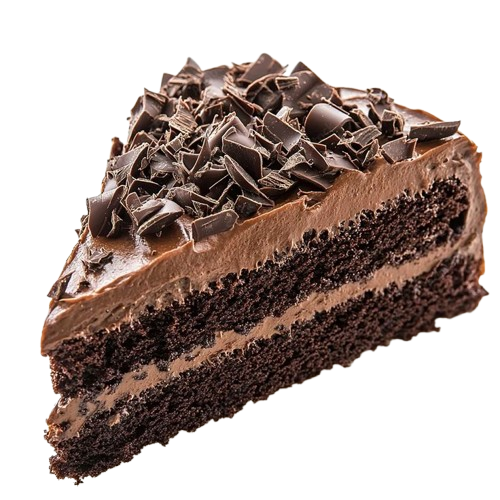
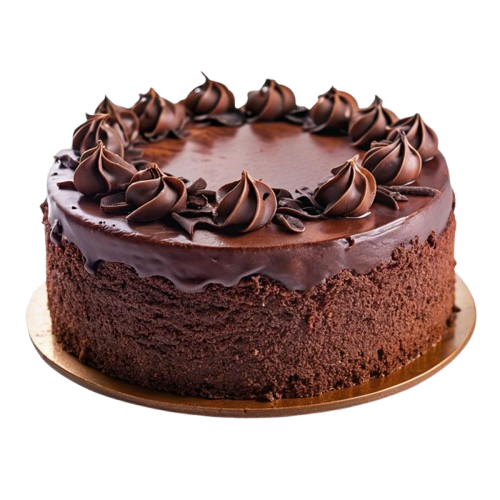
SERVICE/BREADCATEGORIE

diff --git a/service.html b/service.html
@@ -94,8 +94,8 @@
 
 
     .card img {
-        height: auto; 
-        width: 100%; 
+        height: 280px auto;
+        width: 100%;
     
     }
     .card-title{
@@ -157,14 +157,21 @@
         max-width: 100%;
     }
     
-    .card img {
-        height: 180px; 
-    }
+   
     }
     .imagebread{
-        height: 300px!important;
-        width: 100%;
+        height: 280px!important;
+        width: 100%!important;
 
+    }
+    .range{
+        font-size: 1.2rem;
+        font-family: sans-serif;
+        font-weight: 500;
+        margin-right: 20px;
+    }
+    .btn-warning{
+        background-color: rgb(255, 215, 15);
     }
         /*.containerservce{
             background-color: #fff;
@@ -247,7 +254,7 @@
                 <div class="card-body">
                     <h5 class="card-title text-center">Breads Categories</h5>
                     <p class="card-text text-center">Delicious Parisienne bread with a crispy crust and soft interior.let's explore more.</p>
-                    <a href="#" class="btn btn-primary">Explore more</a>
+                    <a href="#breads" class="btn btn-primary">Explore more</a>
                 </div>
             </div>
         </div>
@@ -259,7 +266,7 @@
                 <div class="card-body">
                     <h5 class="card-title text-center">Cakes Categories</h5>
                     <p class="card-text text-center">Rich chocolate cake with layers of moist sponge and creamy frosting, let's explore more.</p>
-                    <a href="#" class="btn btn-primary">Explore more</a>
+                    <a href="#cakes" class="btn btn-primary">Explore more</a>
                 </div>
             </div>
         </div>
@@ -341,99 +348,169 @@
 
     </div>
     </div>-->
-    <div class="containerservce">
-    <h2 class="fs-1 Categories mb-4" id="#breads">Breads Products</h2>
-    <div class="row g-3"> 
-      <div class="col-lg-3 col-md-4 col-sm-6">
-        <div class="card cardbg-color h-100 text-center">
-          <img src="/images/b1.jpg" class="card-img-top imagebread" alt="Bread">
-          <div class="card-body p-2">
-            <h6 class="card-title">Foccacia</h6>
-            <p class="card-text small">A flat Italian bread topped with olive oil, herbs, and garlic.</p>
-          </div>
+<div class="containerservce">
+  <h2 class="fs-1 Categories mb-4" id="breads">Breads Products</h2>
+
+  <div class="row g-3">
+    <div class="col-lg-3 col-md-4 col-sm-6">
+      <div class="card cardbg-color h-100 text-center">
+        <img src="/images/b1.jpg" class="card-img-top imagebread" alt="Foccacia">
+        <div class="card-body p-2">
+          <h6 class="card-title">Foccacia</h6>
+          <p class="card-text small">Flat Italian bread with olive oil and herbs.</p>
+          <p class="fw-bold mb-1">12 MAD</p>
+          <input type="number" class="form-control form-control-sm text-center mb-2" min="1" value="1">
+          <button class="btn btn-sm btn-primary w-100">Add to Order</button>
         </div>
       </div>
-      <div class="col-lg-3 col-md-4 col-sm-6">
-        <div class="card cardbg-color h-100 text-center">
-          <img src="/images/b2.jpg" class="card-img-top imagebread" alt="Bread">
-          <div class="card-body p-2">
-            <h6 class="card-title">Ciabatta</h6>
-            <p class="card-text small">A long, thin Italian bread with a crispy crust and soft interior.</p>
-          </div>
+    </div>
+
+  
+    <div class="col-lg-3 col-md-4 col-sm-6">
+      <div class="card cardbg-color h-100 text-center">
+        <img src="/images/b2.jpg" class="card-img-top imagebread" alt="Ciabatta">
+        <div class="card-body p-2">
+          <h6 class="card-title">Ciabatta</h6>
+          <p class="card-text small">Italian bread with crispy crust and soft inside.</p>
+          <p class="fw-bold mb-1">10 MAD</p>
+          <input type="number" class="form-control form-control-sm text-center mb-2" min="1" value="1">
+          <button class="btn btn-sm btn-primary w-100">Add to Order</button>
         </div>
       </div>
-      <div class="col-lg-3 col-md-4 col-sm-6">
-        <div class="card cardbg-color h-100 text-center">
-          <img src="/images/b3.jpg" class="card-img-top imagebread" alt="Bread">
-          <div class="card-body p-2">
-            <h6 class="card-title">Sourdough Bread</h6>
-            <p class="card-text small">Traditional French bread with a crispy crust and airy interior.</p>
-          </div>
+    </div>
+
+    
+    <div class="col-lg-3 col-md-4 col-sm-6">
+      <div class="card cardbg-color h-100 text-center">
+        <img src="/images/b3.jpg" class="card-img-top imagebread" alt="Sourdough">
+        <div class="card-body p-2">
+          <h6 class="card-title">Sourdough Bread</h6>
+          <p class="card-text small">Naturally fermented with rich flavor.</p>
+          <p class="fw-bold mb-1">14 MAD</p>
+          <input type="number" class="form-control form-control-sm text-center mb-2" min="1" value="1">
+          <button class="btn btn-sm btn-primary w-100">Add to Order</button>
         </div>
       </div>
-      <div class="col-lg-3 col-md-4 col-sm-6">
-        <div class="card cardbg-color h-100 text-center">
-          <img src="/images/b4.jpg" class="card-img-top imagebread" alt="Bread">
-          <div class="card-body p-2">
-            <h6 class="card-title">White Bread</h6>
-            <p class="card-text small">Soft and fluffy, ideal for sandwiches and toast.</p>
-          </div>
+    </div>
+
+  
+    <div class="col-lg-3 col-md-4 col-sm-6">
+      <div class="card cardbg-color h-100 text-center">
+        <img src="/images/b4.jpg" class="card-img-top imagebread" alt="White Bread">
+        <div class="card-body p-2">
+          <h6 class="card-title">White Bread</h6>
+          <p class="card-text small">Soft and fluffy for sandwiches.</p>
+          <p class="fw-bold mb-1">8 MAD</p>
+          <input type="number" class="form-control form-control-sm text-center mb-2" min="1" value="1">
+          <button class="btn btn-sm btn-primary w-100">Add to Order</button>
         </div>
       </div>
-      <div class="col-lg-3 col-md-4 col-sm-6">
-        <div class="card cardbg-color h-100 text-center">
-          <img src="/images/b5.jpg" class="card-img-top imagebread" alt="Bread">
-          <div class="card-body p-2">
-            <h6 class="card-title">Multigrain Bread</h6>
-            <p class="card-text small">Baked with a mix of grains and seeds for extra taste and nutrition.</p>
-          </div>
+    </div>
+
+    
+    <div class="col-lg-3 col-md-4 col-sm-6">
+      <div class="card cardbg-color h-100 text-center">
+        <img src="/images/b5.jpg" class="card-img-top imagebread" alt="Multigrain">
+        <div class="card-body p-2">
+          <h6 class="card-title">Multigrain Bread</h6>
+          <p class="card-text small">Healthy bread with mixed grains.</p>
+          <p class="fw-bold mb-1">13 MAD</p>
+          <input type="number" class="form-control form-control-sm text-center mb-2" min="1" value="1">
+          <button class="btn btn-sm btn-primary w-100">Add to Order</button>
         </div>
       </div>
-      <div class="col-lg-3 col-md-4 col-sm-6">
-        <div class="card cardbg-color h-100 text-center">
-          <img src="/images/b6.jpg" class="card-img-top imagebread" alt="Bread">
-          <div class="card-body p-2">
-            <h6 class="card-title">Rye Bread</h6>
-            <p class="card-text small">A tangy, fermented bread made with a natural starter culture.</p>
-          </div>
+    </div>
+
+  
+    <div class="col-lg-3 col-md-4 col-sm-6">
+      <div class="card cardbg-color h-100 text-center">
+        <img src="/images/b6.jpg" class="card-img-top imagebread" alt="Rye Bread">
+        <div class="card-body p-2">
+          <h6 class="card-title">Rye Bread</h6>
+          <p class="card-text small">Dense bread with strong taste.</p>
+          <p class="fw-bold mb-1">11 MAD</p>
+          <input type="number" class="form-control form-control-sm text-center mb-2" min="1" value="1">
+          <button class="btn btn-sm btn-primary w-100">Add to Order</button>
         </div>
       </div>
-      <div class="col-lg-3 col-md-4 col-sm-6">
-        <div class="card cardbg-color h-100 text-center">
-          <img src="/images/b7.jpg" class="card-img-top imagebread" alt="Bread">
-          <div class="card-body p-2">
-            <h6 class="card-title">Baguette</h6>
-            <p class="card-text small">Traditional French bread with a crispy crust and airy interior.</p>
-          </div>
+    </div>
+
+   
+    <div class="col-lg-3 col-md-4 col-sm-6">
+      <div class="card cardbg-color h-100 text-center">
+        <img src="/images/b7.jpg" class="card-img-top imagebread" alt="Baguette">
+        <div class="card-body p-2">
+          <h6 class="card-title">Baguette</h6>
+          <p class="card-text small">Classic French crispy bread.</p>
+          <p class="fw-bold mb-1">7 MAD</p>
+          <input type="number" class="form-control form-control-sm text-center mb-2" min="1" value="1">
+          <button class="btn btn-sm btn-primary w-100">Add to Order</button>
         </div>
       </div>
-      <div class="col-lg-3 col-md-4 col-sm-6">
-        <div class="card cardbg-color h-100 text-center">
-          <img src="/images/b8.jpg" class="card-img-top imagebread" alt="Bread">
-          <div class="card-body p-2">
-            <h6 class="card-title">whole wheat bread</h6>
-            <p class="card-text small">A nutritious bread made from whole wheat flour, offering a nutty flavor and high fiber content.</p>
-          </div>
+    </div>
+
+    
+    <div class="col-lg-3 col-md-4 col-sm-6">
+      <div class="card cardbg-color h-100 text-center">
+        <img src="/images/b8.jpg" class="card-img-top imagebread" alt="Whole Wheat">
+        <div class="card-body p-2">
+          <h6 class="card-title">Whole Wheat Bread</h6>
+          <p class="card-text small">Nutty flavor, high fiber.</p>
+          <p class="fw-bold mb-1">9 MAD</p>
+          <input type="number" class="form-control form-control-sm text-center mb-2" min="1" value="1">
+          <button class="btn btn-sm btn-primary w-100">Add to Order</button>
         </div>
       </div>
-      <div class="col-lg-3 col-md-4 col-sm-6">
-        <div class="card cardbg-color h-100 text-center">
-          <img src="/images/b9.jpg" class="card-img-top imagebread" alt="Bread">
-          <div class="card-body p-2">
-            <h6 class="card-title">Brioche</h6>
-            <p class="card-text small">A rich, buttery French bread with a soft texture and sweet flavor.</p>
-          </div>
+    </div>
+
+   
+    <div class="col-lg-3 col-md-4 col-sm-6">
+      <div class="card cardbg-color h-100 text-center">
+        <img src="/images/b9.jpg" class="card-img-top imagebread" alt="Brioche">
+        <div class="card-body p-2">
+          <h6 class="card-title">Brioche</h6>
+          <p class="card-text small">Sweet and buttery bread.</p>
+          <p class="fw-bold mb-1">15 MAD</p>
+          <input type="number" class="form-control form-control-sm text-center mb-2" min="1" value="1">
+          <button class="btn btn-sm btn-primary w-100">Add to Order</button>
         </div>
       </div>
-      <div class="col-lg-3 col-md-4 col-sm-6">
-        <div class="card cardbg-color h-100 text-center">
-          <img src="/images/b10.jpg" class="card-img-top imagebread" alt="Bread">
-          <div class="card-body p-2">
-            <h6 class="card-title">pita bread</h6>
-            <p class="card-text small">Soft and fluffy, perfect for wraps and sandwiches.</p>
-          </div>
+    </div>
+
+    
+    <div class="col-lg-3 col-md-4 col-sm-6">
+      <div class="card cardbg-color h-100 text-center">
+        <img src="/images/b10.jpg" class="card-img-top imagebread" alt="Pita Bread">
+        <div class="card-body p-2">
+          <h6 class="card-title">Pita Bread</h6>
+          <p class="card-text small">Perfect for wraps and sandwiches.</p>
+          <p class="fw-bold mb-1">6 MAD</p>
+          <input type="number" class="form-control form-control-sm text-center mb-2" min="1" value="1">
+          <button class="btn btn-sm btn-primary w-100">Add to Order</button>
         </div>
       </div>
+    </div>
+    <div class="card col-lg-6 col-md-4 col-sm h-100">
+        <h4 class="mb-3">Confirm Your Order</h4>
+
+        <p class="small text-muted">
+            Please review your selected bread products and quantities.
+            Once you are ready, confirm your order by contacting us.
+        </p>
+
+        <ul class="list-unstyled small">
+            <li>✔ Select your favorite breads</li>
+            <li>✔ Choose the desired quantity</li>
+            <li>✔ Click confirm to proceed</li>
+        </ul>
+
+        <a href="contact.html" class="btn btn-warning mt-3 w-100">Confirm Order
+        </a>
+    </div>
+
+
+  </div>
+</div>
 
 </div>
 
